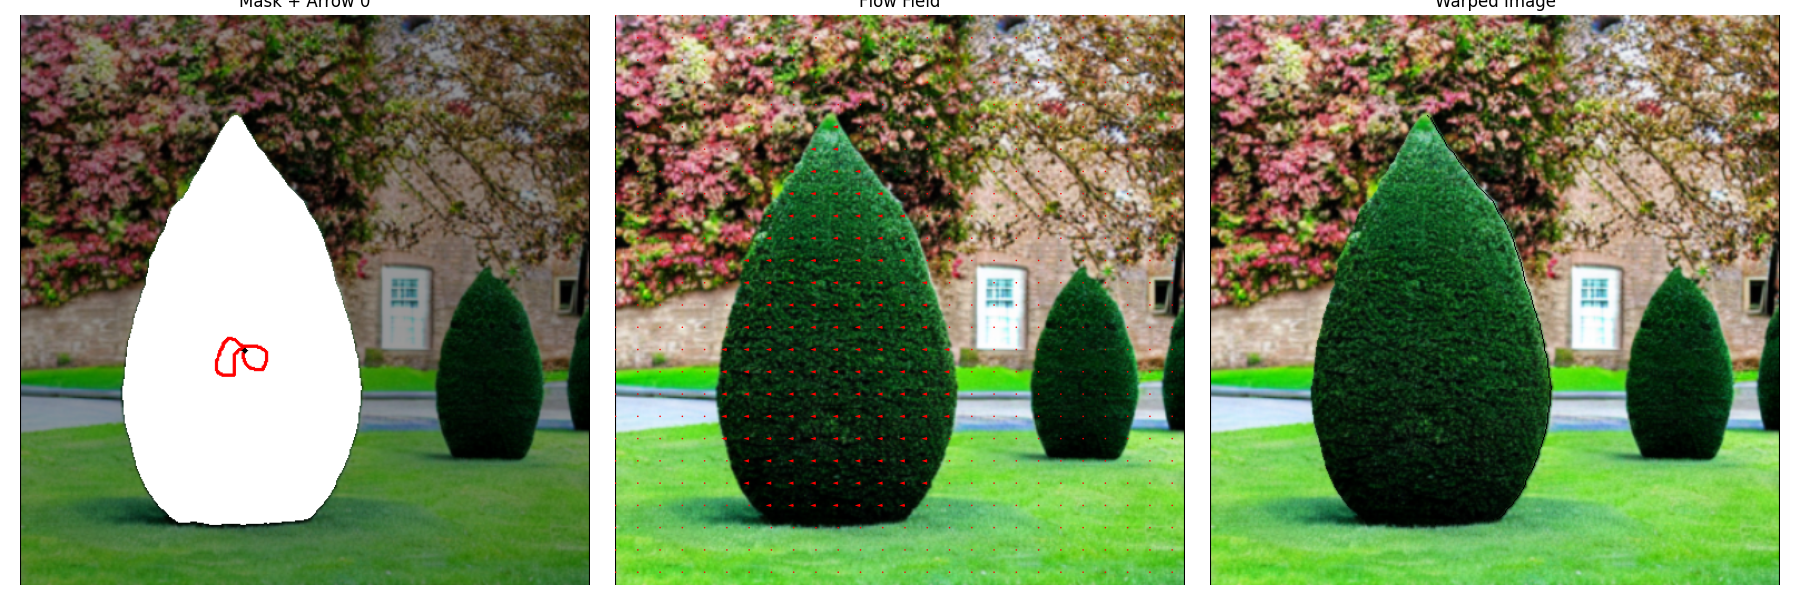
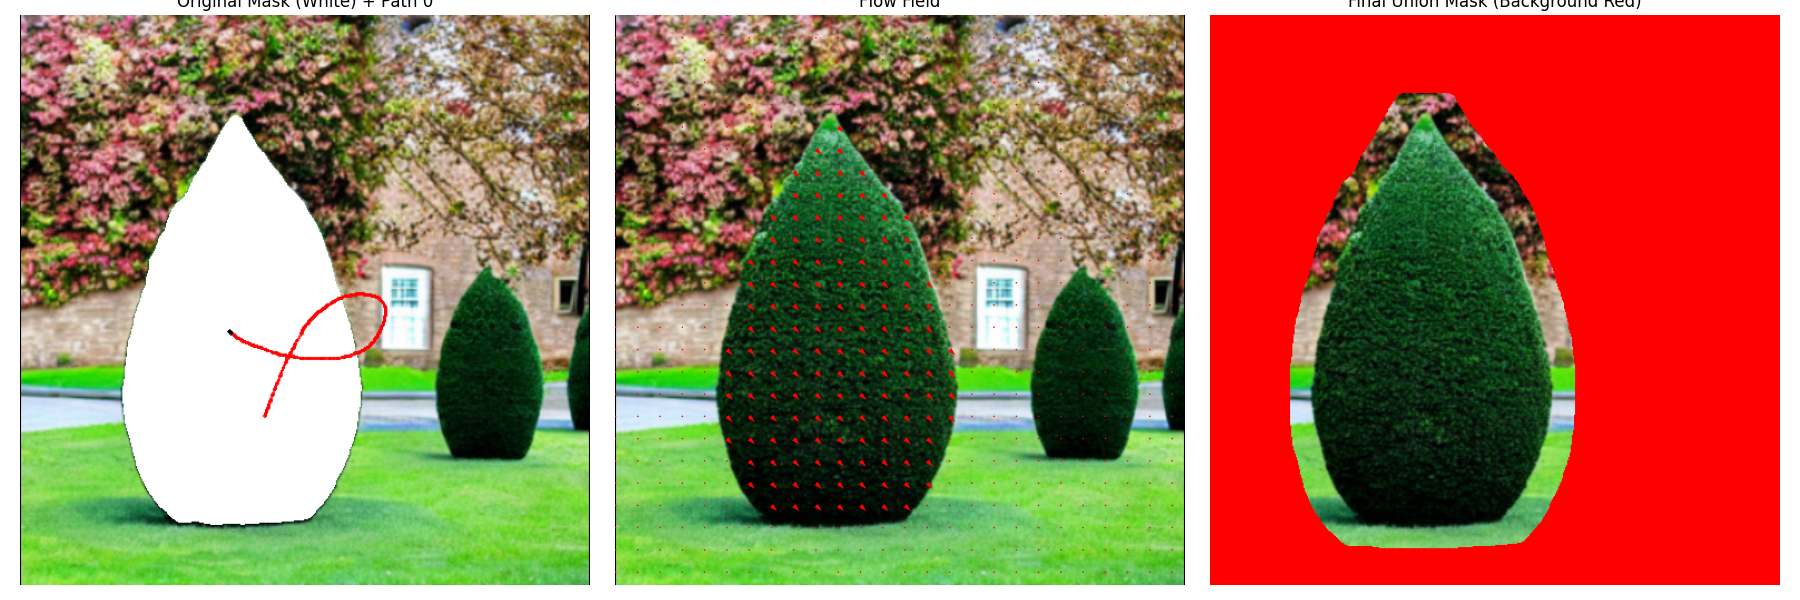
mask is union of destination and start, but reversed

diff --git a/gui/omega_gui.py b/gui/omega_gui.py
@@ -6,7 +6,6 @@ import os
 import matplotlib.pyplot as plt
 from scipy.ndimage import map_coordinates
 import cv2
-from segment_anything import sam_model_registry, SamPredictor
 import imageio
 import torch
 
@@ -20,8 +19,8 @@ n_flows = 10
 output_dir = "./assets/custom_flows"
 os.makedirs(output_dir, exist_ok=True)
 
-# --- Resize + pad image to 1024x1024 ---
-def resize(image: np.ndarray, resize_size: int = 1024) -> np.ndarray:
+# --- Resize + pad image to 512x512 ---
+def resize(image: np.ndarray, resize_size: int = 512) -> np.ndarray:
     pil_img = Image.fromarray(image)
     w, h = pil_img.size
     if w >= h:
@@ -35,12 +34,23 @@ def resize(image: np.ndarray, resize_size: int = 1024) -> np.ndarray:
     padded.paste(resized, ((resize_size - new_w) // 2, (resize_size - new_h) // 2))
     return np.array(padded)
 
+# --- Helper functions ---
+def show_image(surface, image):
+    surf = pygame.image.fromstring(image.tobytes(), image.size, image.mode)
+    surface.blit(surf, (0, 0))
+    pygame.display.flip()
+
+def dilate_mask(mask, iterations=10):
+    kernel = np.ones((5,5), np.uint8)
+    return cv2.dilate(mask.astype(np.uint8), kernel, iterations=iterations) > 0
+
 # --- Load + Resize Image ---
 im_raw = Image.open(image_path)
 im_np = resize(np.array(im_raw), resize_size)
 im_pil = Image.fromarray(im_np)
 
 # --- Load SAM ---
+from segment_anything import sam_model_registry, SamPredictor
 sam = sam_model_registry[model_type](checkpoint=sam_checkpoint)
 sam.to(device)
 predictor = SamPredictor(sam)
@@ -52,12 +62,6 @@ screen = pygame.display.set_mode((resize_size, resize_size))
 pygame.display.set_caption("Click to Mask, Then Draw Path")
 white = (255, 255, 255)
 black = (0, 0, 0)
-
-# --- Helpers ---
-def show_image(surface, image):
-    surf = pygame.image.fromstring(image.tobytes(), image.size, image.mode)
-    surface.blit(surf, (0, 0))
-    pygame.display.flip()
 
 # --- State ---
 drawing = False
@@ -87,24 +91,6 @@ while running:
                 )
                 mask = masks[scores.argmax()].astype(np.uint8)
 
-                # Resize and repeat to match repo format: [1, 4, 64, 64]
-                mask_small = np.array(Image.fromarray(mask * 255).resize((64, 64), Image.NEAREST)) // 255
-                mask_stack = np.stack([mask_small] * 4, axis=0)
-                torch_mask = torch.from_numpy(mask_stack).unsqueeze(0).float()
-                torch.save(torch_mask, os.path.join(output_dir, "mask.pth"))
-                print("Mask saved.")
-
-                # --- Visualize the saved mask for confirmation ---
-                upscaled_mask = np.array(Image.fromarray(mask_small * 255).resize((resize_size, resize_size), Image.NEAREST))
-                vis_overlay = im_np.copy()
-                vis_overlay[upscaled_mask == 255] = [255, 0, 0]
-                plt.figure(figsize=(6, 6))
-                plt.imshow(vis_overlay)
-                plt.title("Saved Mask Visualization")
-                plt.axis('off')
-                plt.savefig(os.path.join(output_dir, "mask_visualization.png"))
-                plt.close()
-
                 masked_overlay = (0.6 * im_np * (1 - mask[..., None]) + 255 * mask[..., None]).astype(np.uint8)
                 waiting_for_mask_click = False
                 show_image(screen, Image.fromarray(masked_overlay))
@@ -115,91 +101,82 @@ while running:
 
         elif event.type == pygame.MOUSEBUTTONUP and not waiting_for_mask_click:
             drawing = False
-            print("Drawn path:", path_points)
 
             if len(path_points) < 2:
-                print("⚠ Not enough path points to generate flows.")
                 continue
 
-            # --- Flow Generation ---
             path_np = np.array(path_points)
             indices = np.linspace(1, len(path_np) - 1, n_flows).astype(int)
             origin = path_np[0]
             targets = path_np[indices]
 
-            coords = np.meshgrid(np.arange(resize_size), np.arange(resize_size), indexing='ij')
-            coords = np.stack(coords, axis=-1).astype(np.float32)
+            mask_bool = mask > 0
+
+            coords_y, coords_x = np.where(mask_bool)
 
             for i, target in enumerate(targets):
                 dx = target[0] - origin[0]
                 dy = target[1] - origin[1]
                 flow = np.zeros((resize_size, resize_size, 2), dtype=np.float32)
-                flow[mask == 1] = [dy, dx]
+                flow[mask_bool] = [dy, dx]
 
-                # Save in (2, H, W) format for compatibility
                 flow_tensor = torch.from_numpy(flow.transpose(2, 0, 1)).unsqueeze(0).float()
                 torch.save(flow_tensor, os.path.join(output_dir, f"flow_{i}.pth"))
 
-                # Composite mask onto new location manually
-                composited = im_np.copy()
-                object_pixels = im_np.copy()
-
-                coords_y, coords_x = np.where(mask == 1)
                 new_y = coords_y + dy
                 new_x = coords_x + dx
-
                 valid = (0 <= new_y) & (new_y < resize_size) & (0 <= new_x) & (new_x < resize_size)
-                new_y = new_y[valid].astype(int)
-                new_x = new_x[valid].astype(int)
-                src_y = coords_y[valid]
-                src_x = coords_x[valid]
+                dest_mask = np.zeros_like(mask_bool)
+                dest_mask[new_y[valid], new_x[valid]] = 1
 
-                # First paint original masked area black
-                composited[coords_y, coords_x] = 0
-                # Then paste object pixels on top at new location
-                composited[new_y, new_x] = object_pixels[src_y, src_x]
+                union_mask = np.logical_or(mask_bool, dest_mask)
+                dilated_mask = dilate_mask(union_mask, iterations=10)
+                final_edit_mask = ~dilated_mask
 
-                # Arrow
-                mask_vis = (0.6 * im_np * (1 - mask[..., None]) + 255 * mask[..., None]).astype(np.uint8)
-                arrowed = mask_vis.copy()
+                downsampled = np.array(Image.fromarray(final_edit_mask.astype(np.uint8) * 255).resize((64, 64), Image.NEAREST)) // 255
+                mask_stack = np.stack([downsampled] * 4, axis=0)
+                mask_tensor = torch.from_numpy(mask_stack).unsqueeze(0).bool()
+                torch.save(mask_tensor, os.path.join(output_dir, f"mask_{i}.pth"))
 
-                # Draw full path in red with alpha
+                mask_background = im_np.copy()
+                mask_background[mask_bool] = [255, 255, 255]
+
+                step = 20
+                y, x = np.mgrid[0:resize_size:step, 0:resize_size:step]
+                u = flow[::step, ::step, 1]
+                v = flow[::step, ::step, 0]
+
+                final_mask_vis = im_np.copy()
+                final_mask_vis[final_edit_mask] = [255, 0, 0]
+
+                arrowed = mask_background.copy()
                 for j in range(1, len(path_np)):
                     pt1 = tuple(path_np[j - 1])
                     pt2 = tuple(path_np[j])
                     overlay = arrowed.copy()
                     cv2.line(overlay, pt1, pt2, color=(255, 0, 0), thickness=2)
                     arrowed = cv2.addWeighted(overlay, 0.8, arrowed, 0.2, 0)
-
                 cv2.arrowedLine(arrowed, tuple(origin), tuple(target), color=(0, 0, 0), thickness=4, tipLength=0.05)
-
-                # Quiver
-                step = 20
-                y, x = np.mgrid[0:resize_size:step, 0:resize_size:step]
-                u = flow[::step, ::step, 1]
-                v = flow[::step, ::step, 0]
 
                 fig, axs = plt.subplots(1, 3, figsize=(18, 6))
                 axs[0].imshow(arrowed)
-                axs[0].set_title(f"Mask + Arrow {i}")
+                axs[0].set_title(f"Original Mask (White) + Path {i}")
                 axs[0].axis("off")
                 axs[1].imshow(im_np)
                 axs[1].quiver(x, y, u, -v, color='r', scale=100, width=0.003)
                 axs[1].set_title("Flow Field")
                 axs[1].axis("off")
-                axs[2].imshow(composited)
-                axs[2].set_title("Warped Image")
+                axs[2].imshow(final_mask_vis)
+                axs[2].set_title("Final Union Mask (Background Red)")
                 axs[2].axis("off")
                 plt.tight_layout()
                 plt.savefig(os.path.join(output_dir, f"mask_arrow_flow_vis_{i}.png"))
                 plt.close()
 
-            # --- Create GIF from saved plots ---
             plot_paths = [os.path.join(output_dir, f"mask_arrow_flow_vis_{i}.png") for i in range(n_flows)]
             images = [imageio.imread(p) for p in plot_paths if os.path.exists(p)]
             gif_path = os.path.join(output_dir, "flow_visualization.gif")
             imageio.mimsave(gif_path, images, duration=0.8)
-            print(f"Saved GIF to {gif_path}")
 
         elif event.type == pygame.KEYDOWN:
             if event.key == pygame.K_ESCAPE:
